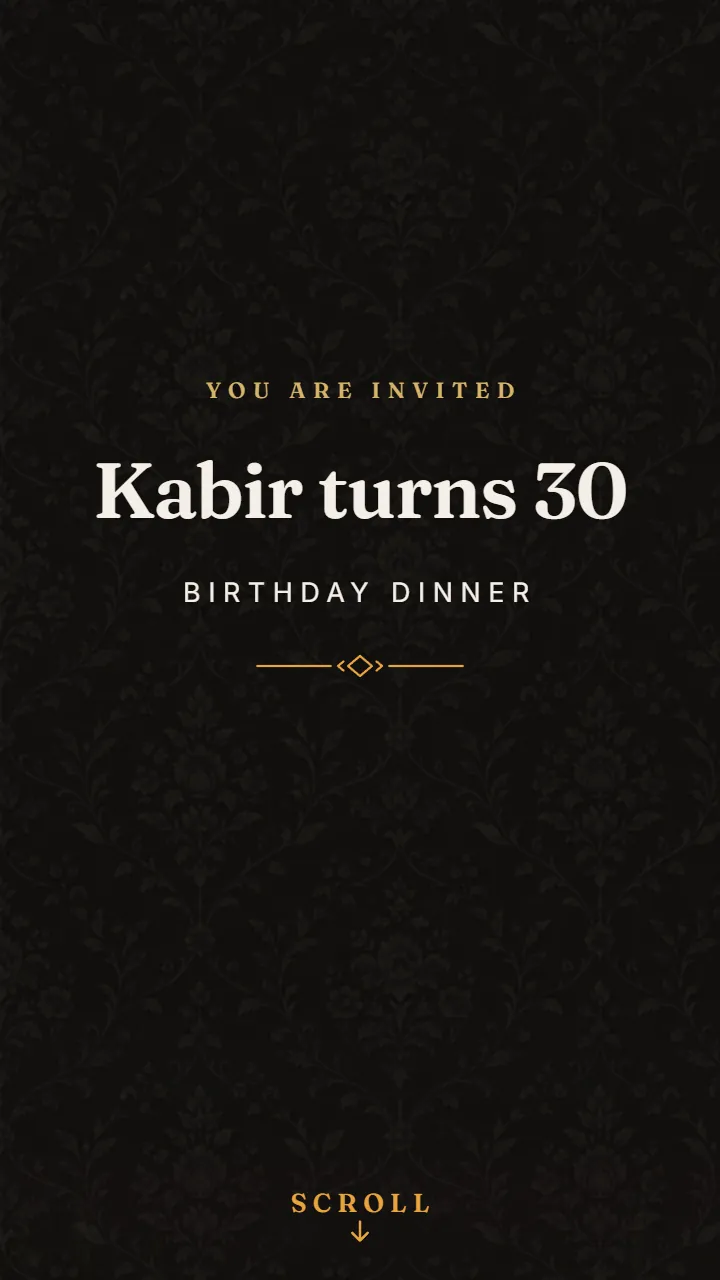
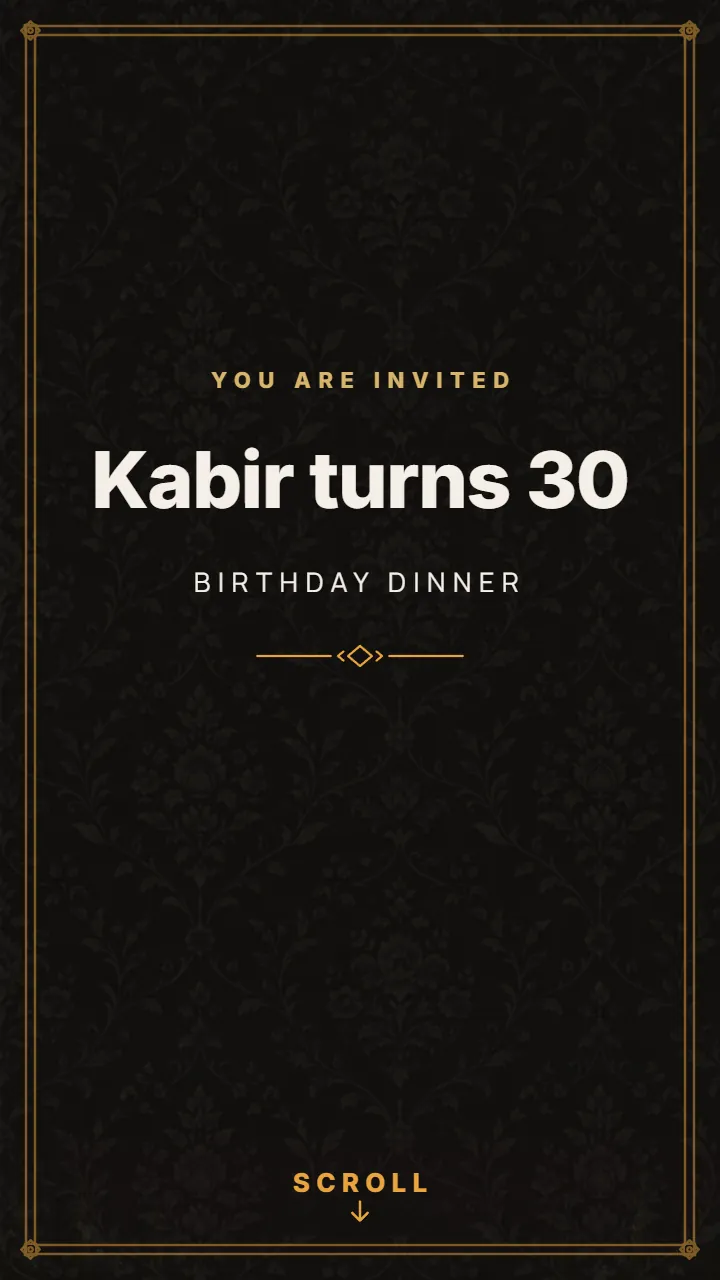
style(traditions): new look for Classic
Ink and gold, now with a look of its own beside the wedding cards: a gold geometric double rule round the card in the accent (it had no frame), the damask as before, a shower of confetti as it opens, and the names in the clean sans (modern) in place of Fraunces. Cover and palette as before. Only a card that chooses Classic in the gallery gets it; the empty card a host starts from (lib/newCard.ts) is unchanged.

Gallery preview remade. Saved cards keep the look they were saved with.

diff --git a/templates/classic/config.ts b/templates/classic/config.ts
@@ -13,8 +13,13 @@ export const CLASSIC_TEMPLATE_ID = "classic";
  * Every invitation saved before templates is one of these: its CardConfig is
  * the whole design, chosen control by control in the full editor, and it
  * carries no templateId at all. Reading such a card never touches its design.
- * Only choosing Classic in the wizard's gallery lays this base design down,
- * and it is the design a new card has always started with.
+ * Only choosing Classic in the wizard's gallery lays this base design down.
+ *
+ * Its look is the plain new card's (lib/newCard.ts, from DEFAULT_DESIGN) with
+ * a little more of its own, so it is not mistaken for any of the wedding
+ * cards: a gold geometric rule round the card in the accent, the damask, a
+ * shower of confetti as it opens, and the names in a clean sans. The empty
+ * card a host starts from is unchanged.
  */
 export const CLASSIC_TEMPLATE: TemplateConfig = {
   /* The "Made with Lifafa" credit in the card's text colour. */
@@ -37,8 +42,16 @@ export const CLASSIC_TEMPLATE: TemplateConfig = {
     plain("cream", "cream"),
     plain("blush", "blush"),
   ],
-  fontPairs: [DEFAULT_DESIGN.style.fontPairId, "modern", "elegant"],
+  fontPairs: ["modern", DEFAULT_DESIGN.style.fontPairId, "elegant"],
   sections: SWITCHABLE_SECTIONS,
-  /* With the royal texture, as a new card has it. */
-  baseDesign: { ...DEFAULT_DESIGN, royalTexture: true },
+  baseDesign: {
+    ...DEFAULT_DESIGN,
+    style: { ...DEFAULT_DESIGN.style, fontPairId: "modern" },
+    /* A gold rule round the card, drawn in the accent: stationery, and no flowers. */
+    borderStyle: "geometricRule",
+    /* Confetti as it opens, for any occasion; nothing else moves. */
+    petals: "open",
+    petalFlower: "confetti",
+    royalTexture: true,
+  },
 };
